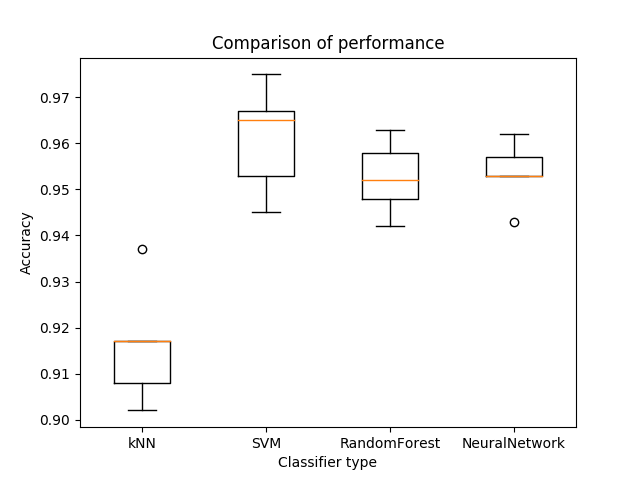
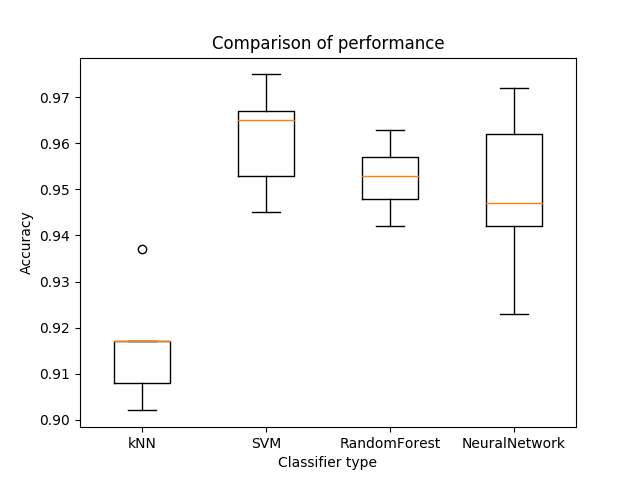
Add data, plots, and corresponding script

Changed region(s): [[0.75, 0.1562, 0.875, 0.6562], [0.5625, 0.3125, 0.6562, 0.4062], [0.8438, 0.2812, 0.875, 0.3125]]

diff --git a/src/data_cleaning_pca.py b/src/data_cleaning_pca.py
@@ -6,47 +6,58 @@ import sklearn.model_selection
 import sklearn.metrics
 from sklearn.decomposition import PCA
 
-
 def get_X_y(infile):
-    # Skip irrelevant lines
-    for i in range(7):
-        infile.readline()
-    header = infile.readline()
-    header = header.split()
+    # Skip 'tissue' (not using in the classification)
+    infile.readline()
+    # Use group labels here for the labels
+    group = infile.readline().split()
+    y = np.array(group[2:]).astype(int)
 
+    # Skip lines not used in the classification
+    for i in range(5):
+        infile.readline()
+
+    # Get cell ids
+    cell_id = infile.readline().split()
+    header = np.array(cell_id[2:])
+
+    # Skip lines not used in the classification
     for i in range(3):
         infile.readline()
 
     X = np.zeros((4998, 3005)).astype(int)
-    y = np.zeros(4998).astype(int)
 
+    # Save the data in X matrix (each column is the vector of one cell with gene expressions)
     for i in range(4998):
-        line = infile.readline()
-        line = line.split()
-        y[i] = int(line[1])
-        X[i] = [int(value) for value in line[2:]]
+        line = infile.readline().split()
+        X[i] = line[2:]
 
+    # Read the rest of files
     for line in infile:
         continue
 
-    return X, y
+    return X.T, y
 
 def prepare_train_test_using_kfold(k, X, y):
     trainset, testset = [], []
     kf = sklearn.model_selection.KFold(n_splits=k, shuffle=True)
     kf.get_n_splits(X)
+    X_train = []
+    y_train = []
+    X_test = []
+    y_test = []
     print(kf)
     for train_index, test_index in kf.split(X):
-        X_train, X_test = X[train_index], X[test_index]
-        y_train, y_test = y[train_index], y[test_index]
-        trainset.append((X_train, y_train))
-        testset.append((X_test, y_test))
-    return trainset, testset
+        X_train.append(X[train_index])
+        y_train.append(y[train_index])
+        X_test.append(X[test_index])
+        y_test.append(y[test_index])
+    return X_train, y_train, X_test, y_test
 
 if __name__ == '__main__':
     parser = ArgumentParser(description="gets txt file format input, then classify single cells into 9 types")
     parser.add_argument('-i', '--infile', type=argparse.FileType('r'), 
-            help="txt file format (line 8: header, line 12 ~ line5009: data - col1: name - col2: label col3 ~ col: activation levels)", default=sys.stdin)
+            help="Use expressionmRNAAnnotations.txt", default=sys.stdin)
     parser.add_argument('-o', '--outfile', help="output file name")
     parser.add_argument('-kfold', '--kfold', type=int, default=5, help="k-fold (positive integer. default is 5-fold)")
     parser.add_argument('-n', '--num_basis', type=int, default=100, help="number of basis vectors to use for dimension reduction")
@@ -68,8 +79,8 @@ if __name__ == '__main__':
     #####################################################################
     # Get trainsets and testsets using K-Fold
     print("Preparing the trainsets and testsets using {} fold...".format(k_fold))
-    trainset, testset = prepare_train_test_using_kfold(k_fold, X, y)
+    X_train, y_train, X_test, y_test = prepare_train_test_using_kfold(k_fold, X, y)
 
-    np.savez(args.outfile, Train = trainset, Test = testset, Kfold = k_fold)
+    np.savez(args.outfile, X_train=X_train, y_train=y_train, X_test=X_test, y_test=y_test, Kfold = k_fold)
     print("-"*60)
     print("trainset and testset are created!")

diff --git a/src/plot_pca_sweep.py b/src/plot_pca_sweep.py
@@ -1,0 +1,83 @@
+import matplotlib as mpl
+mpl.use('Agg')
+import matplotlib.pyplot as plt
+import sys
+import numpy as np
+import argparse
+from argparse import ArgumentParser
+
+n = 4
+SVM_l = []
+kNN_l = []
+NN_l = []
+RF_l = []
+
+def read_values(input_file):
+    line = input_file.readline().rstrip().split(',')
+    SVM_l.append(float(line[0]))
+    line = input_file.readline().rstrip().split(',')
+    kNN_l.append(float(line[0]))
+    line = input_file.readline().rstrip().split(',')
+    NN_l.append(float(line[0]))
+    line = input_file.readline().rstrip().split(',')
+    RF_l.append(float(line[0]))
+
+def plot_accuracy(x, label, title, xlabel, ylabel, filename):
+    plt.plot(x, SVM_l)
+    plt.plot(x, kNN_l)
+    plt.plot(x, NN_l)
+    plt.plot(x, RF_l)
+    plt.legend(label)
+    plt.title(title)
+    plt.xlabel(xlabel)
+    plt.ylabel(ylabel)
+    plt.savefig(filename, format=filename.split('.')[-1])
+    plt.show()
+
+if __name__ == '__main__':
+    parser = ArgumentParser(description="Read the best results, then draw a line curve.")
+    parser.add_argument('-i1', '--infile1', type=argparse.FileType('r'), 
+            help="input file1", default=sys.stdin)
+    parser.add_argument('-i2', '--infile2', type=argparse.FileType('r'), 
+            help="input file2", default=sys.stdin)
+    parser.add_argument('-i3', '--infile3', type=argparse.FileType('r'), 
+            help="input file3", default=sys.stdin)
+    parser.add_argument('-i4', '--infile4', type=argparse.FileType('r'), 
+            help="input file4", default=sys.stdin)
+    parser.add_argument('-i5', '--infile5', type=argparse.FileType('r'), 
+            help="input file5", default=sys.stdin)
+    parser.add_argument('-i6', '--infile6', type=argparse.FileType('r'), 
+            help="input file6", default=sys.stdin)
+    parser.add_argument('-i7', '--infile7', type=argparse.FileType('r'), 
+            help="input file7", default=sys.stdin)
+    parser.add_argument('-i8', '--infile8', type=argparse.FileType('r'), 
+            help="input file8", default=sys.stdin)
+    parser.add_argument('-i9', '--infile9', type=argparse.FileType('r'), 
+            help="input file9", default=sys.stdin)
+    args = parser.parse_args()
+
+
+    data1 = args.infile1
+    data2 = args.infile2
+    data3 = args.infile3
+    data4 = args.infile4
+    data5 = args.infile5
+    data6 = args.infile6
+    data7 = args.infile7
+    data8 = args.infile8
+    data9 = args.infile9
+
+    read_values(data1)
+    read_values(data2)
+    read_values(data3)
+    read_values(data4)
+    read_values(data5)
+    read_values(data6)
+    read_values(data7)
+    read_values(data8)
+    read_values(data9)
+
+    label = ["SVM", "kNN", "NeuralNetwork", "RandomForest"]
+    x = [7, 13, 25, 50, 100, 200, 400, 800, 1600]
+
+    plot_accuracy(x, label, "Comparison of performance", "PCA num basis", "Accuracy", "plots/experiment2.png")
